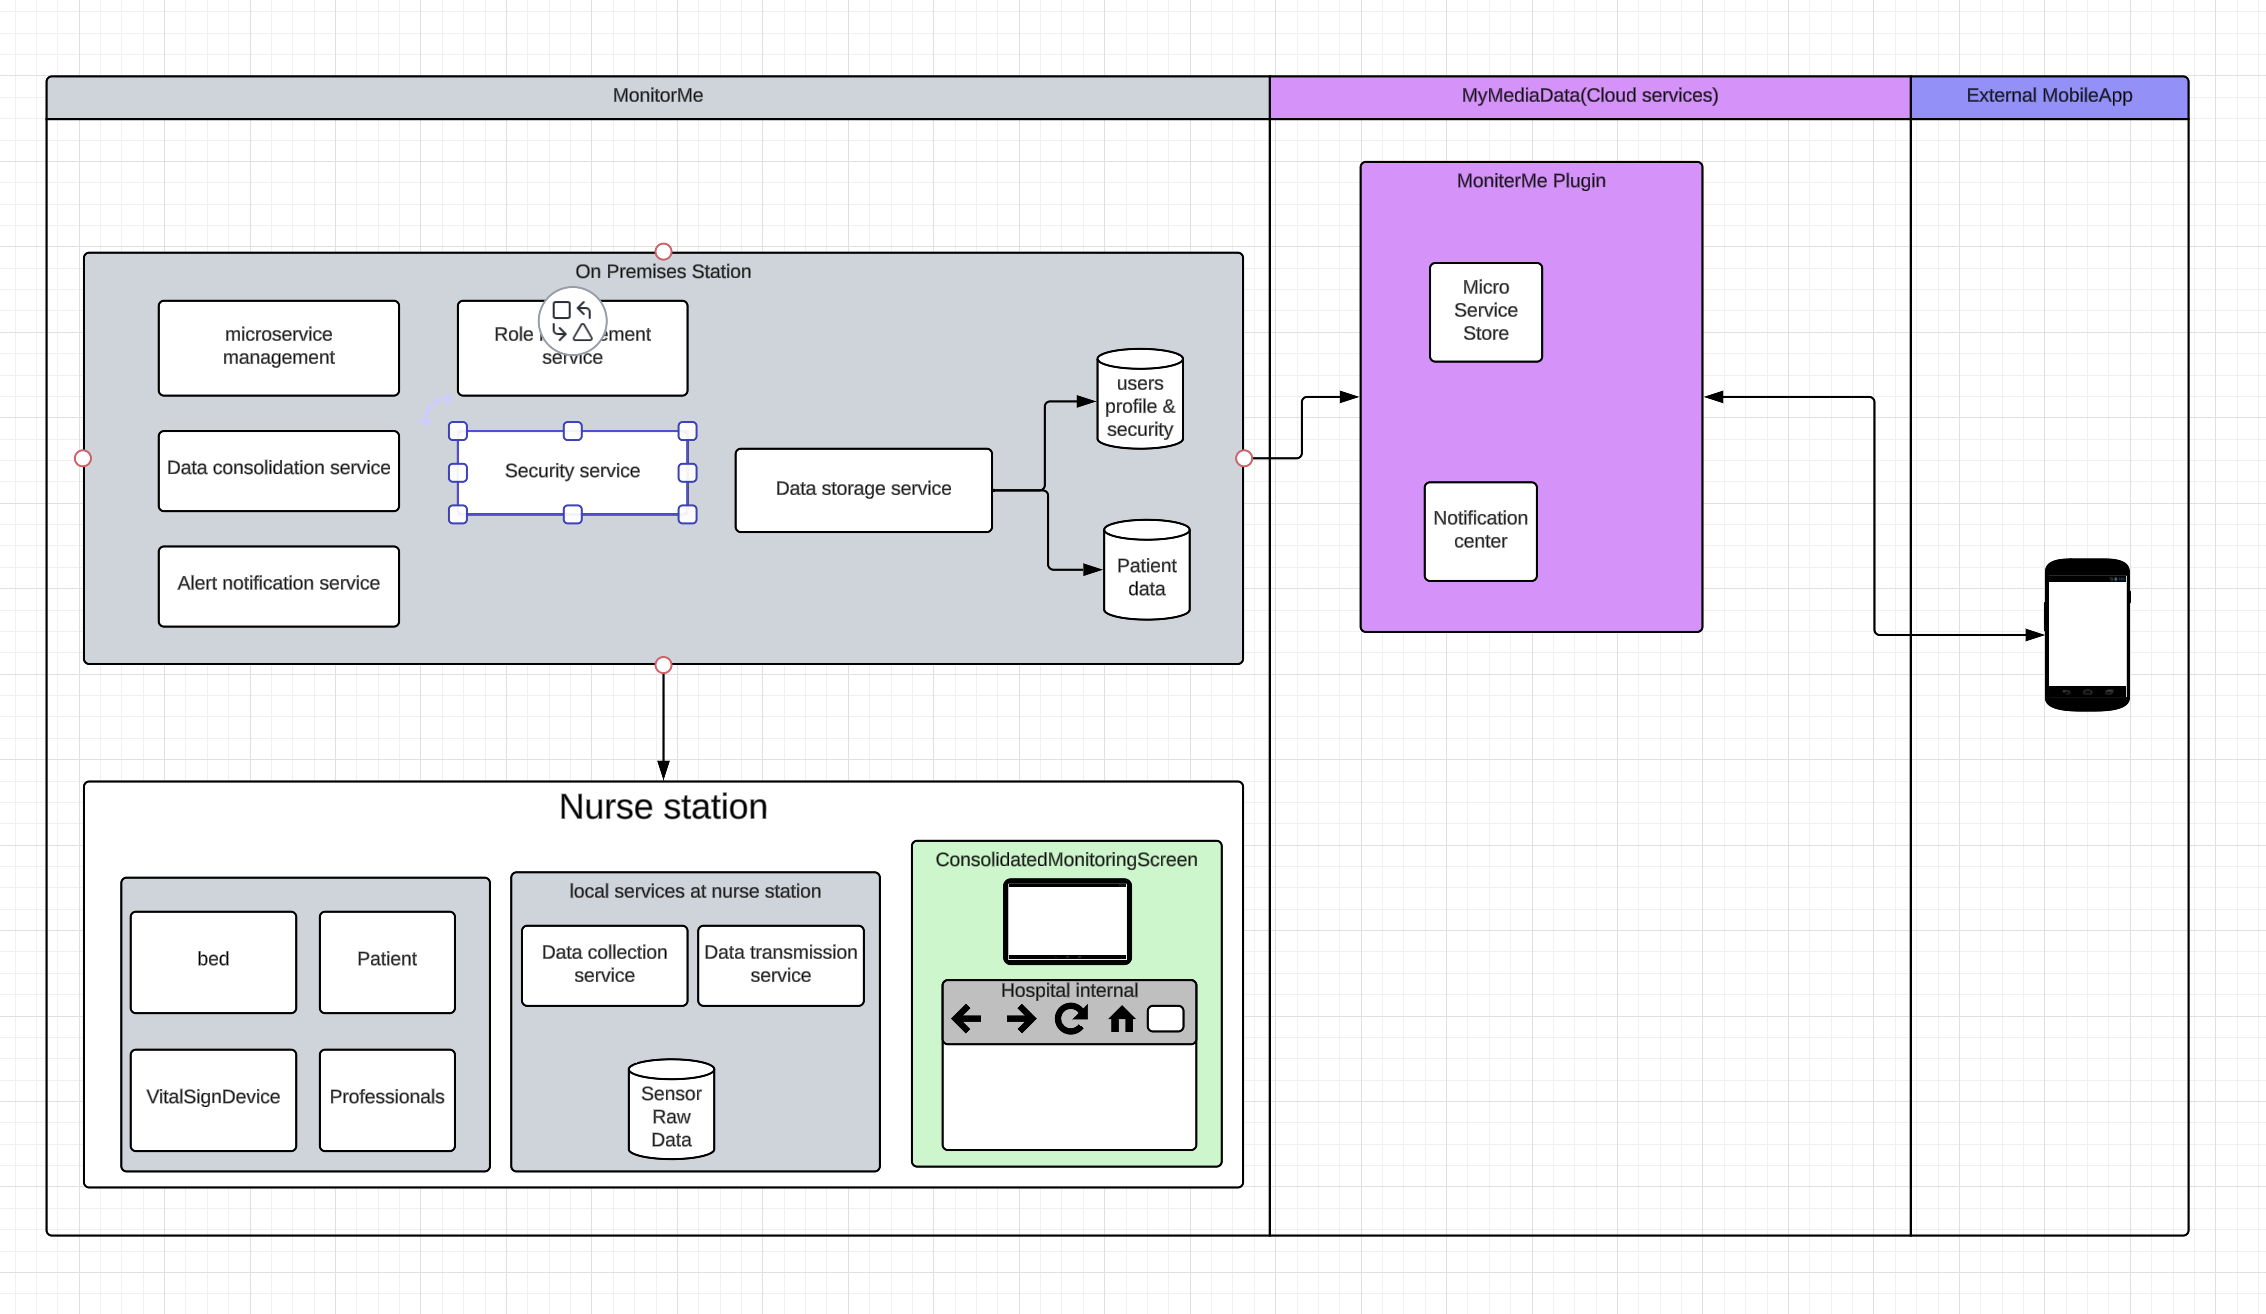
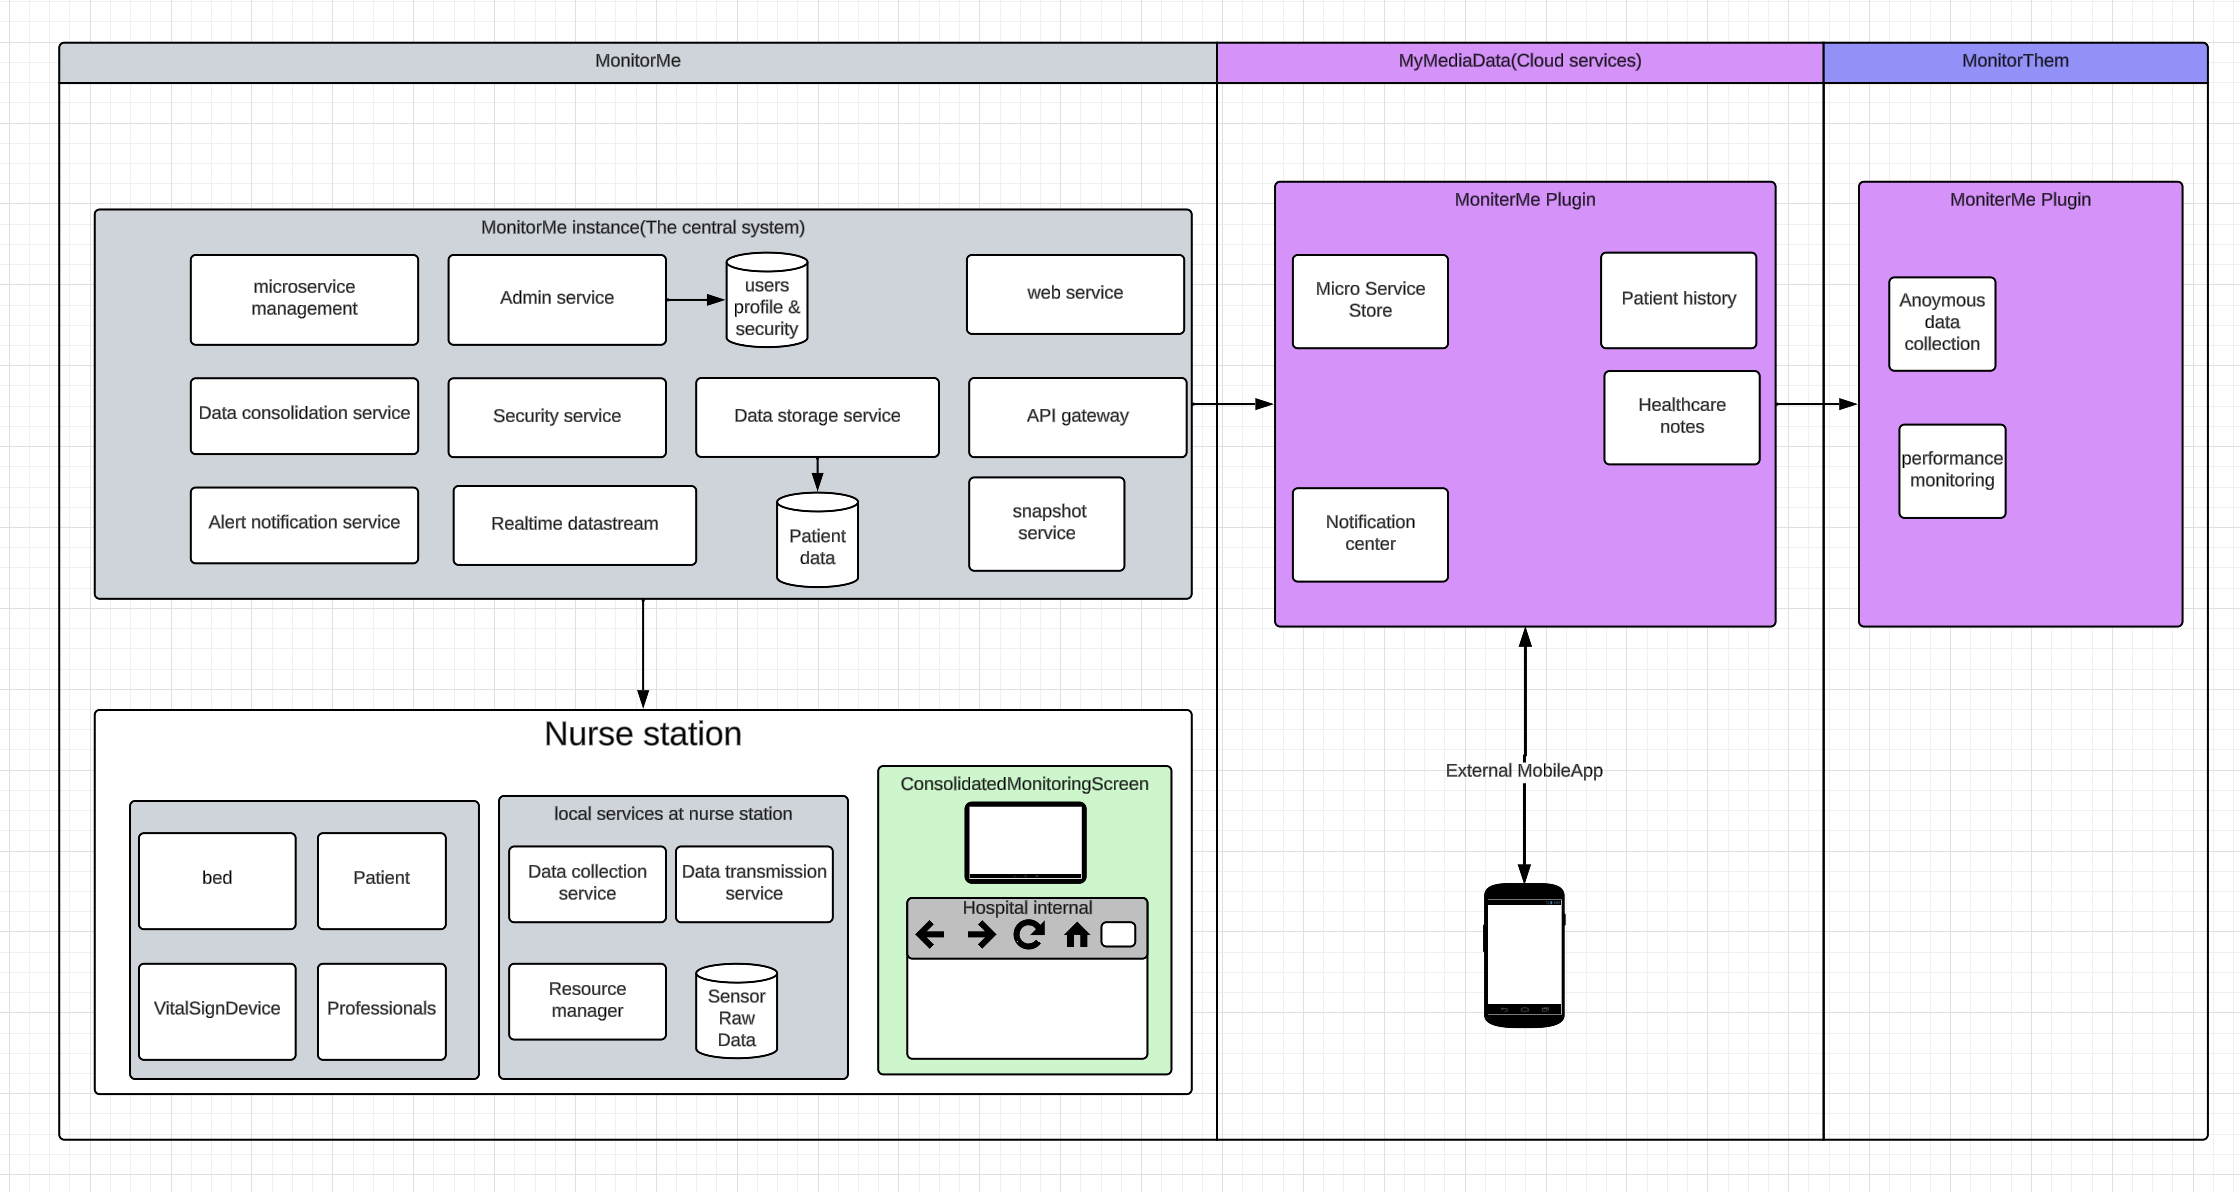
update readme.md

diff --git a/README.md b/README.md
@@ -93,8 +93,31 @@ Some technical constrains could be applicable in the MonitorMe system:
 3. Data Storage Capacity, for each patients vital sign, Monitor Me must record and store the past 24 hours of all vital sign readings.
 4. Security Protocols
 
-# Component Identifications
+# High level user journeys
 
+### The system administrator says:
+"I want to be able to enroll new patients into the system, meanwhile.
+ I want to be able to allocate/free the system resources, such as bed, sensors.
+ I want to be able to assign some healthcare professionals,
+ I want to create an instance to pack all things above."
+![System admin works](./img/HighlevelUseCaseAdmin.png)
+
+### The healthcare professional says:
+"I want to be able to config threshold for vital sign data, to make the system run data collection service and generate realtime events which are process to generate alter notification to my mobile phone
+ I want to be able to quickly identify an abnormal, so I should view real-time vital sign data for the specific patient
+ I want create snapshot for the vital data, together write down my notes and upload to MyMedicalData cloud,
+ I want to be able to access the patient history stored on the MyMedicalData cloud"
+![Healthcare professional works](./img/HighlevelUsecaseHealthcareProfessionals.png)
+
+### The patient says:
+"I want to be able to register on the system so that my mobile phone is able to access all information,
+ I want to be able to view my personal helth history so that I can stay informed about my status, also I might go to other hospitals, then my history can be shared with other professionals
+ I want to provide my consent for security protocols, especially for my personal data collection and sharing
+ I want to be able to request support from healthcare professionals through the system"
+![Patient is treated well](./img/HighlevelUsecasePatient.png)
+
+# Component Identification
+![component identification](./img/components%20identification.png)
 
 # Customer Maintenance, workflows todo
 Add/Remove device

diff --git a/03-solution/08 - UIUX.md b/03-solution/08 - UIUX.md
@@ -6,4 +6,15 @@ The UI/UX module of MonitorMe to address several common problems faced by health
 ## Alert Fatigue Solution
 To address alert fatigue, MonitorMe provides a customizable alert system that allows healthcare professionals to set their own alert thresholds for each vital sign parameter. This ensures that they only receive critical alerts that require immediate attention, reducing desensitization and missed critical alerts.
 
+### User story
+A healthcare professional is monitering a patient who has history of low blood pressure. The professional sets an alert threshold for blood pressure so that it gets realtime monitored, whenever if the patient's blood pressure drops bellow a certain level. The professional receives an alert immediately and respond quickly to prevent situation goes worse.
+
 ![use case of alert configuration](../img/uiux_usecase_nurse_configuration_usecase.png)
+
+## User Error Solution
+To minimize user error, MonitorMe provides clear instructions and intuitive controls for all functions. The interface is designed to be easy to use and understand, reducing the risk of misinterpreting or entering incorrect values.
+
+### User story
+The admin might need to assign various hardware sensors together with beds to create a 'patient service' instance, enroll with healthcare professionals, and patient.
+The user-friendly interface displays a list of available beds and sensors, so that, admin can then select the desired sensors for each bed and save the configuration. The operation of update, remove senssor assignments is easy to make. The system is also designed to allow the admin enroll patients, healthcare professionals in an easy way.
+![use case of admin create patient service](../img/uiux_usecase_create_service.png)
